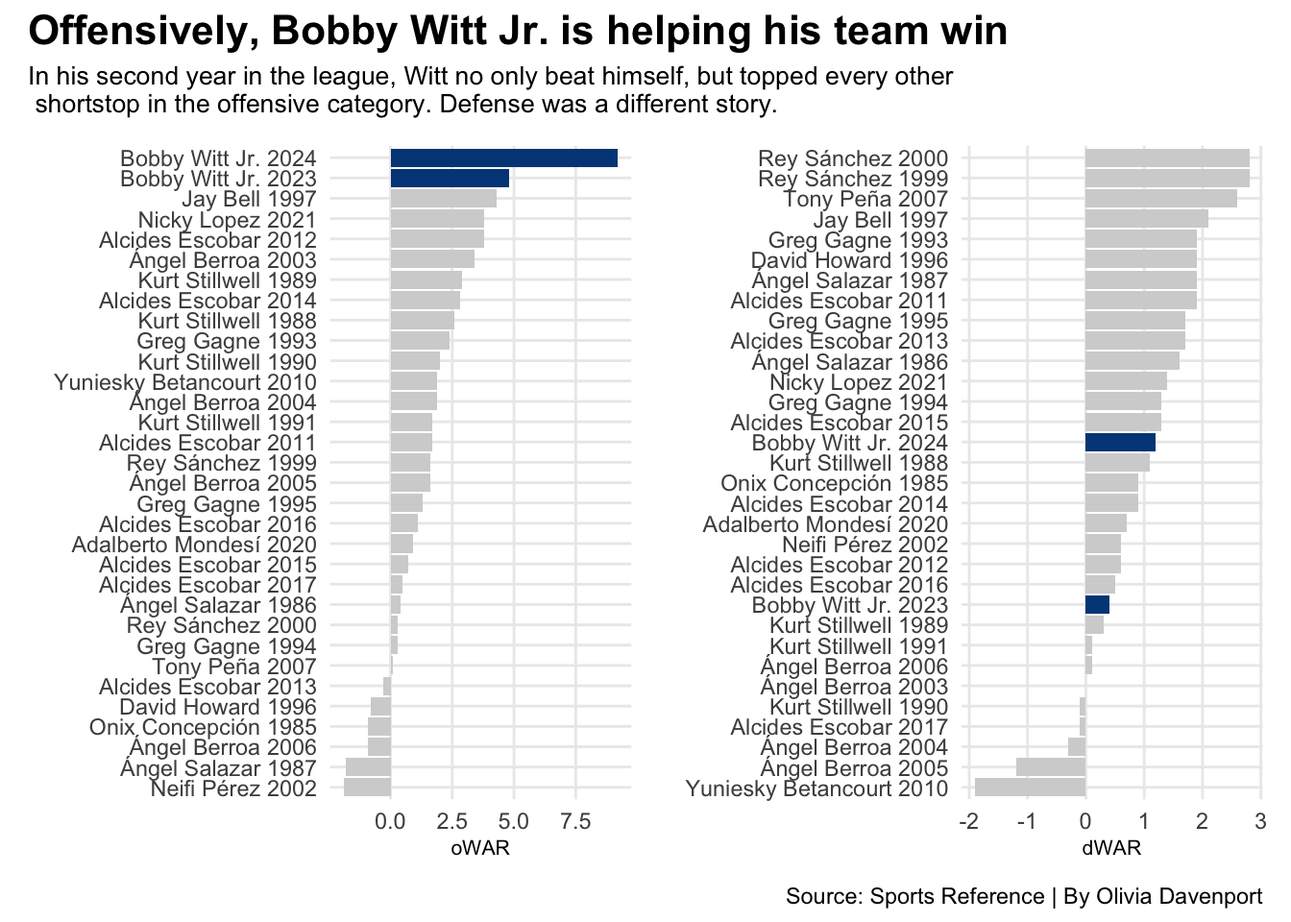
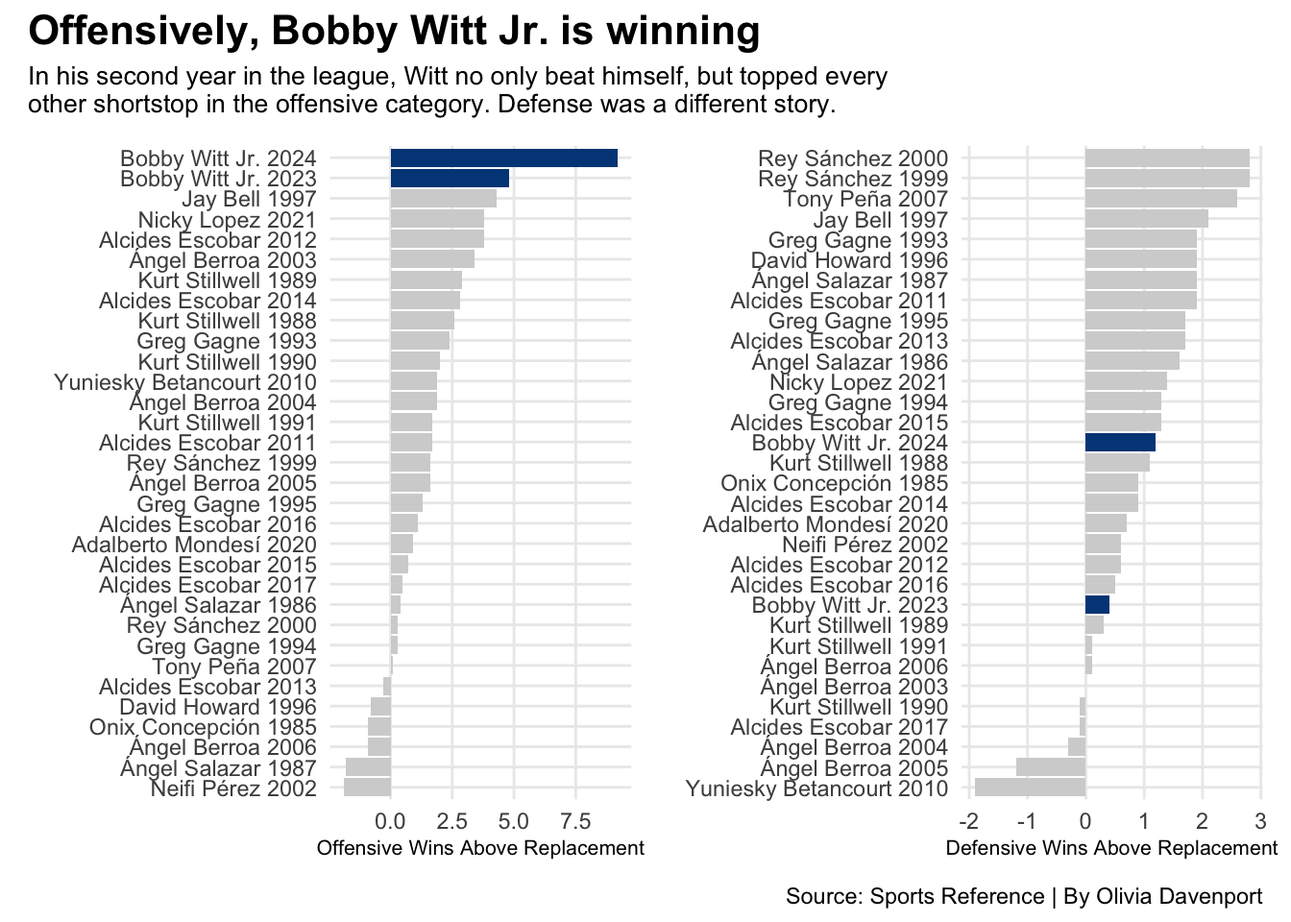
Final Draft

diff --git a/posts/is-bobby-witt-the-best-since-1985/index.html b/posts/is-bobby-witt-the-best-since-1985/index.html
@@ -9,7 +9,7 @@
 <meta name="author" content="Olivia Davenport">
 <meta name="dcterms.date" content="2025-04-14">
 
-<title>CHANGE THIS TO BE THE TITLE OF YOUR POST – Olivia Davenport’s Sports Blog</title>
+<title>Is Bobby Witt Jr.&nbsp;the best shortstop the Royals have had since their first World Series win in 1985? – Olivia Davenport's Sports Blog</title>
 <style>
 code{white-space: pre-wrap;}
 span.smallcaps{font-variant: small-caps;}
@@ -144,7 +144,7 @@ pre > code.sourceCode > span > a:first-child::before { text-decoration: underlin
 <header id="title-block-header" class="quarto-title-block default page-columns page-full">
   <div class="quarto-title-banner page-columns page-full">
     <div class="quarto-title column-body">
-      <h1 class="title">CHANGE THIS TO BE THE TITLE OF YOUR POST</h1>
+      <h1 class="title">Is Bobby Witt Jr.&nbsp;the best shortstop the Royals have had since their first World Series win in 1985?</h1>
                                 <div class="quarto-categories">
                 <div class="quarto-category">baseball</div>
                 <div class="quarto-category">mlb</div>
@@ -185,7 +185,10 @@ pre > code.sourceCode > span > a:first-child::before { text-decoration: underlin
 
 
 
-<p>story goes here for first chart</p>
+<p>The Kansas City Royals have won two World Series Championships. One in 1985, the other in 2015. 10 years later, the Royals are working toward a third championship with the help of young star Bobby Witt Jr.&nbsp;</p>
+<p>The Royals drafted Witt second overall in the 2019 MLB draft. Witt made his MLB debut in 2022 and has made an almost instant impact in Kansas City. He is the only shortstop to reach 30-30 seasons (30 Homeruns and 30 Stolen Bases), and he didn’t only do it once, he did it twice. And he’s only played two seasons in the league.</p>
+<p>Witt has made the largest impact offensively. Offensive WAR (oWAR) stands for offensive wins above replacement. Simply put, oWAR measures how many wins a player adds to their team based on their offensive stats compared to an average player. The larger the number, the better they are, the more wins they have added for their team.</p>
+<p>Defensively, Witt is still making a positive impact, but it is not as notable as his offensive performance. Rey Sánchez tops the chart defensively.</p>
 <div class="cell">
 <details class="code-fold">
 <summary>Code</summary>
@@ -238,7 +241,7 @@ pre > code.sourceCode > span > a:first-child::before { text-decoration: underlin
 <span id="cb1-47"><a href="#cb1-47" aria-hidden="true" tabindex="-1"></a>  <span class="fu">theme_minimal</span>() <span class="sc">+</span></span>
 <span id="cb1-48"><a href="#cb1-48" aria-hidden="true" tabindex="-1"></a>  <span class="fu">labs</span>(</span>
 <span id="cb1-49"><a href="#cb1-49" aria-hidden="true" tabindex="-1"></a>    <span class="at">x=</span><span class="st">""</span>, </span>
-<span id="cb1-50"><a href="#cb1-50" aria-hidden="true" tabindex="-1"></a>    <span class="at">y=</span><span class="st">"oWAR"</span> </span>
+<span id="cb1-50"><a href="#cb1-50" aria-hidden="true" tabindex="-1"></a>    <span class="at">y=</span><span class="st">"Offensive Wins Above Replacement"</span> </span>
 <span id="cb1-51"><a href="#cb1-51" aria-hidden="true" tabindex="-1"></a>    )</span>
 <span id="cb1-52"><a href="#cb1-52" aria-hidden="true" tabindex="-1"></a></span>
 <span id="cb1-53"><a href="#cb1-53" aria-hidden="true" tabindex="-1"></a>bar2 <span class="ot">&lt;-</span> <span class="fu">ggplot</span>() <span class="sc">+</span></span>
@@ -249,13 +252,13 @@ pre > code.sourceCode > span > a:first-child::before { text-decoration: underlin
 <span id="cb1-58"><a href="#cb1-58" aria-hidden="true" tabindex="-1"></a>  <span class="fu">theme_minimal</span>() <span class="sc">+</span></span>
 <span id="cb1-59"><a href="#cb1-59" aria-hidden="true" tabindex="-1"></a>  <span class="fu">labs</span>(</span>
 <span id="cb1-60"><a href="#cb1-60" aria-hidden="true" tabindex="-1"></a>    <span class="at">x=</span><span class="st">""</span>, </span>
-<span id="cb1-61"><a href="#cb1-61" aria-hidden="true" tabindex="-1"></a>    <span class="at">y=</span><span class="st">"dWAR"</span></span>
+<span id="cb1-61"><a href="#cb1-61" aria-hidden="true" tabindex="-1"></a>    <span class="at">y=</span><span class="st">"Defensive Wins Above Replacement"</span></span>
 <span id="cb1-62"><a href="#cb1-62" aria-hidden="true" tabindex="-1"></a>    )</span>
 <span id="cb1-63"><a href="#cb1-63" aria-hidden="true" tabindex="-1"></a></span>
 <span id="cb1-64"><a href="#cb1-64" aria-hidden="true" tabindex="-1"></a>bar1 <span class="sc">+</span> bar2 <span class="sc">+</span> </span>
 <span id="cb1-65"><a href="#cb1-65" aria-hidden="true" tabindex="-1"></a>  <span class="fu">plot_annotation</span>(</span>
-<span id="cb1-66"><a href="#cb1-66" aria-hidden="true" tabindex="-1"></a>    <span class="at">title =</span> <span class="st">"Offensively, Bobby Witt Jr. is helping his team win"</span>,</span>
-<span id="cb1-67"><a href="#cb1-67" aria-hidden="true" tabindex="-1"></a>    <span class="at">subtitle =</span> <span class="st">"In his second year in the league, Witt no only beat himself, but topped every other </span><span class="sc">\n</span><span class="st"> shortstop in the offensive category. Defense was a different story."</span>,</span>
+<span id="cb1-66"><a href="#cb1-66" aria-hidden="true" tabindex="-1"></a>    <span class="at">title =</span> <span class="st">"Offensively, Bobby Witt Jr. is winning"</span>,</span>
+<span id="cb1-67"><a href="#cb1-67" aria-hidden="true" tabindex="-1"></a>    <span class="at">subtitle =</span> <span class="st">"In his second year in the league, Witt no only beat himself, but topped every </span><span class="sc">\n</span><span class="st">other shortstop in the offensive category. Defense was a different story."</span>,</span>
 <span id="cb1-68"><a href="#cb1-68" aria-hidden="true" tabindex="-1"></a>    <span class="at">caption =</span> <span class="st">"Source: Sports Reference | By Olivia Davenport"</span></span>
 <span id="cb1-69"><a href="#cb1-69" aria-hidden="true" tabindex="-1"></a>  )  <span class="sc">&amp;</span> </span>
 <span id="cb1-70"><a href="#cb1-70" aria-hidden="true" tabindex="-1"></a>  <span class="fu">theme</span>(</span>
@@ -273,7 +276,12 @@ pre > code.sourceCode > span > a:first-child::before { text-decoration: underlin
 </div>
 </div>
 </div>
-<p>Story goes here for second chart</p>
+<p>The advanced statistics Rfield and Rbat tell a different story to better understand how a player supports or stabs their team on either side of the ball.</p>
+<p>Rfield shows how many runs a player gives up or allows from a defensive perspective. Rbat shows how many runs a player generates with their bat.</p>
+<p>For both of these statistics, zero is the baseline and positive numbers equal a positive correlation.</p>
+<p>When it comes to the Rfield value, +15 is Golden Glove territory, and +5 to +15 is above average. -5 to –15 is not abysmal, but they are hurting their team significantly.</p>
+<p>Rbat is similar in the fact that positive numbers are a good thing. In two seasons Bobby Witt Jr.&nbsp;has created more runs with his bat than any other short stop that has played for the Royals.</p>
+<p>Defensively, he is slightly below average and still Rey Sánchez’s impact shows up in the field.</p>
 <div class="cell">
 <details class="code-fold">
 <summary>Code</summary>
@@ -289,18 +297,24 @@ pre > code.sourceCode > span > a:first-child::before { text-decoration: underlin
 <span id="cb2-10"><a href="#cb2-10" aria-hidden="true" tabindex="-1"></a>    <span class="at">colour =</span> <span class="st">"lightgrey"</span>,</span>
 <span id="cb2-11"><a href="#cb2-11" aria-hidden="true" tabindex="-1"></a>    <span class="at">colour_x =</span> <span class="st">"#BD9B60"</span>,</span>
 <span id="cb2-12"><a href="#cb2-12" aria-hidden="true" tabindex="-1"></a>    <span class="at">colour_xend =</span> <span class="st">"#004687"</span>) <span class="sc">+</span></span>
-<span id="cb2-13"><a href="#cb2-13" aria-hidden="true" tabindex="-1"></a>  <span class="fu">theme_minimal</span>() <span class="sc">+</span></span>
-<span id="cb2-14"><a href="#cb2-14" aria-hidden="true" tabindex="-1"></a>    <span class="fu">labs</span>(<span class="at">title =</span> <span class="st">"Nebraska's defense wasn't as bad as you think"</span>, </span>
-<span id="cb2-15"><a href="#cb2-15" aria-hidden="true" tabindex="-1"></a>         <span class="at">subtitle =</span> <span class="st">"blah blah blah"</span>,</span>
-<span id="cb2-16"><a href="#cb2-16" aria-hidden="true" tabindex="-1"></a>         <span class="at">y=</span><span class="st">""</span>,</span>
-<span id="cb2-17"><a href="#cb2-17" aria-hidden="true" tabindex="-1"></a>         <span class="at">x=</span><span class="st">"Runs Contributed vs Runs Stopped"</span>) <span class="sc">+</span></span>
-<span id="cb2-18"><a href="#cb2-18" aria-hidden="true" tabindex="-1"></a>  <span class="fu">theme</span>(</span>
-<span id="cb2-19"><a href="#cb2-19" aria-hidden="true" tabindex="-1"></a>    <span class="at">plot.title =</span> <span class="fu">element_text</span>(<span class="at">size =</span> <span class="dv">16</span>, <span class="at">face =</span> <span class="st">"bold"</span>),</span>
-<span id="cb2-20"><a href="#cb2-20" aria-hidden="true" tabindex="-1"></a>    <span class="at">axis.title =</span> <span class="fu">element_text</span>(<span class="at">size =</span> <span class="dv">8</span>), </span>
-<span id="cb2-21"><a href="#cb2-21" aria-hidden="true" tabindex="-1"></a>    <span class="at">plot.subtitle =</span> <span class="fu">element_text</span>(<span class="at">size=</span><span class="dv">10</span>), </span>
-<span id="cb2-22"><a href="#cb2-22" aria-hidden="true" tabindex="-1"></a>    <span class="at">panel.grid.minor =</span> <span class="fu">element_blank</span>()</span>
-<span id="cb2-23"><a href="#cb2-23" aria-hidden="true" tabindex="-1"></a>    ) </span></code><button title="Copy to Clipboard" class="code-copy-button"><i class="bi"></i></button></pre></div>
+<span id="cb2-13"><a href="#cb2-13" aria-hidden="true" tabindex="-1"></a>  <span class="fu">geom_vline</span>(<span class="at">xintercept=</span><span class="dv">0</span>, <span class="at">color=</span><span class="st">"red"</span>, <span class="at">size =</span> .<span class="dv">5</span>) <span class="sc">+</span></span>
+<span id="cb2-14"><a href="#cb2-14" aria-hidden="true" tabindex="-1"></a>  <span class="fu">theme_minimal</span>() <span class="sc">+</span></span>
+<span id="cb2-15"><a href="#cb2-15" aria-hidden="true" tabindex="-1"></a>    <span class="fu">labs</span>(<span class="at">title =</span> <span class="st">"Offense is his forte, but he holds his ground defensively"</span>, </span>
+<span id="cb2-16"><a href="#cb2-16" aria-hidden="true" tabindex="-1"></a>         <span class="at">subtitle =</span> <span class="st">"Witt is scoring significantly more runs than a replacement player would and defensively,</span><span class="sc">\n</span><span class="st">he is just below average."</span>,</span>
+<span id="cb2-17"><a href="#cb2-17" aria-hidden="true" tabindex="-1"></a>         <span class="at">y=</span><span class="st">""</span>,</span>
+<span id="cb2-18"><a href="#cb2-18" aria-hidden="true" tabindex="-1"></a>         <span class="at">x=</span><span class="st">"Runs Contributed vs Runs Stopped"</span>,</span>
+<span id="cb2-19"><a href="#cb2-19" aria-hidden="true" tabindex="-1"></a><span class="at">caption =</span> <span class="st">"Source: Sports Reference | By Olivia Davenport"</span>) <span class="sc">+</span></span>
+<span id="cb2-20"><a href="#cb2-20" aria-hidden="true" tabindex="-1"></a>  <span class="fu">theme</span>(</span>
+<span id="cb2-21"><a href="#cb2-21" aria-hidden="true" tabindex="-1"></a>    <span class="at">plot.title =</span> <span class="fu">element_text</span>(<span class="at">size =</span> <span class="dv">15</span>, <span class="at">face =</span> <span class="st">"bold"</span>),</span>
+<span id="cb2-22"><a href="#cb2-22" aria-hidden="true" tabindex="-1"></a>    <span class="at">axis.title =</span> <span class="fu">element_text</span>(<span class="at">size =</span> <span class="dv">8</span>), </span>
+<span id="cb2-23"><a href="#cb2-23" aria-hidden="true" tabindex="-1"></a>    <span class="at">plot.subtitle =</span> <span class="fu">element_text</span>(<span class="at">size=</span><span class="dv">10</span>), </span>
+<span id="cb2-24"><a href="#cb2-24" aria-hidden="true" tabindex="-1"></a>    <span class="at">panel.grid.minor =</span> <span class="fu">element_blank</span>()</span>
+<span id="cb2-25"><a href="#cb2-25" aria-hidden="true" tabindex="-1"></a>    ) </span></code><button title="Copy to Clipboard" class="code-copy-button"><i class="bi"></i></button></pre></div>
 </details>
+<div class="cell-output cell-output-stderr">
+<pre><code>Warning: Using `size` aesthetic for lines was deprecated in ggplot2 3.4.0.
+ℹ Please use `linewidth` instead.</code></pre>
+</div>
 <div class="cell-output cell-output-stderr">
 <pre><code>Warning: Using the `size` aesthetic with geom_segment was deprecated in ggplot2 3.4.0.
 ℹ Please use the `linewidth` aesthetic instead.</code></pre>
@@ -313,43 +327,43 @@ pre > code.sourceCode > span > a:first-child::before { text-decoration: underlin
 </div>
 </div>
 </div>
-<p>story for third graph here</p>
+<p>Taking a closer look at offense, Witt makes the top three in offensive production. Playing in 319 games in his first two seasons, he made an instant impact. He is third to Alcides Escobar, who played more than 1,000 games for Kansas City, and Ángel Berroa who played 583 games. With much fewer chances, Witt has done nearly as much as Berroa. Witt’s success has been noticed as he was selected for the 2024 All-Star game.</p>
 <div class="cell">
 <details class="code-fold">
 <summary>Code</summary>
-<div class="sourceCode cell-code" id="cb4"><pre class="sourceCode r code-with-copy"><code class="sourceCode r"><span id="cb4-1"><a href="#cb4-1" aria-hidden="true" tabindex="-1"></a>career <span class="ot">&lt;-</span> royalshits <span class="sc">|&gt;</span> </span>
-<span id="cb4-2"><a href="#cb4-2" aria-hidden="true" tabindex="-1"></a>  <span class="fu">group_by</span>(Player) <span class="sc">|&gt;</span> </span>
-<span id="cb4-3"><a href="#cb4-3" aria-hidden="true" tabindex="-1"></a>  <span class="fu">summarise</span>(</span>
-<span id="cb4-4"><a href="#cb4-4" aria-hidden="true" tabindex="-1"></a>    <span class="at">CareerHR =</span> <span class="fu">sum</span>(HR),</span>
-<span id="cb4-5"><a href="#cb4-5" aria-hidden="true" tabindex="-1"></a>    <span class="at">CareerRBI =</span> <span class="fu">sum</span>(RBI),</span>
-<span id="cb4-6"><a href="#cb4-6" aria-hidden="true" tabindex="-1"></a>    <span class="at">CareerDoubles =</span> <span class="fu">sum</span>(<span class="st">`</span><span class="at">2B</span><span class="st">`</span>),</span>
-<span id="cb4-7"><a href="#cb4-7" aria-hidden="true" tabindex="-1"></a>    <span class="at">CareerTriples =</span> <span class="fu">sum</span>(<span class="st">`</span><span class="at">3B</span><span class="st">`</span>),</span>
-<span id="cb4-8"><a href="#cb4-8" aria-hidden="true" tabindex="-1"></a>    <span class="at">Offense =</span> CareerHR <span class="sc">+</span> CareerRBI</span>
-<span id="cb4-9"><a href="#cb4-9" aria-hidden="true" tabindex="-1"></a>  )</span>
-<span id="cb4-10"><a href="#cb4-10" aria-hidden="true" tabindex="-1"></a>Scoring <span class="ot">&lt;-</span> career <span class="sc">|&gt;</span> </span>
-<span id="cb4-11"><a href="#cb4-11" aria-hidden="true" tabindex="-1"></a>  <span class="fu">pivot_longer</span>(</span>
-<span id="cb4-12"><a href="#cb4-12" aria-hidden="true" tabindex="-1"></a>    <span class="at">cols=</span><span class="fu">starts_with</span>(<span class="st">"C"</span>),</span>
-<span id="cb4-13"><a href="#cb4-13" aria-hidden="true" tabindex="-1"></a>    <span class="at">names_to=</span><span class="st">"Type"</span></span>
-<span id="cb4-14"><a href="#cb4-14" aria-hidden="true" tabindex="-1"></a>  )</span>
-<span id="cb4-15"><a href="#cb4-15" aria-hidden="true" tabindex="-1"></a></span>
-<span id="cb4-16"><a href="#cb4-16" aria-hidden="true" tabindex="-1"></a> <span class="fu">ggplot</span>() <span class="sc">+</span></span>
-<span id="cb4-17"><a href="#cb4-17" aria-hidden="true" tabindex="-1"></a>   <span class="fu">geom_bar</span>(<span class="at">data=</span>Scoring, <span class="fu">aes</span>(<span class="at">x=</span><span class="fu">reorder</span>(Player,Offense), <span class="at">weight=</span>Offense, <span class="at">fill =</span> Type)) <span class="sc">+</span></span>
-<span id="cb4-18"><a href="#cb4-18" aria-hidden="true" tabindex="-1"></a>   <span class="fu">scale_fill_manual</span>(<span class="at">values=</span><span class="fu">c</span>(<span class="st">"#004687"</span>,<span class="st">"#BD9B60"</span>,<span class="st">"#7AB2DD"</span>,<span class="st">"lightgrey"</span>), <span class="at">name=</span><span class="st">""</span>) <span class="sc">+</span></span>
-<span id="cb4-19"><a href="#cb4-19" aria-hidden="true" tabindex="-1"></a>   <span class="fu">coord_flip</span>() <span class="sc">+</span></span>
-<span id="cb4-20"><a href="#cb4-20" aria-hidden="true" tabindex="-1"></a>   <span class="fu">theme_minimal</span>() <span class="sc">+</span></span>
-<span id="cb4-21"><a href="#cb4-21" aria-hidden="true" tabindex="-1"></a>   <span class="fu">labs</span>(</span>
-<span id="cb4-22"><a href="#cb4-22" aria-hidden="true" tabindex="-1"></a>    <span class="at">x=</span><span class="st">""</span>, </span>
-<span id="cb4-23"><a href="#cb4-23" aria-hidden="true" tabindex="-1"></a>    <span class="at">y=</span><span class="st">"Offensive Production"</span>,</span>
-<span id="cb4-24"><a href="#cb4-24" aria-hidden="true" tabindex="-1"></a>    <span class="at">title=</span><span class="st">"At the plate, Witt is a problem for pitchers"</span>, </span>
-<span id="cb4-25"><a href="#cb4-25" aria-hidden="true" tabindex="-1"></a>    <span class="at">subtitle=</span><span class="st">"With over 200 fewer games under his belt, Bobby Witt Jr. is neck and </span><span class="sc">\n</span><span class="st"> neck with Ángel Berroa when it comes to the plate."</span>, </span>
-<span id="cb4-26"><a href="#cb4-26" aria-hidden="true" tabindex="-1"></a>    <span class="at">caption=</span><span class="st">"Source: Sports Reference | By Olivia Davenport"</span></span>
-<span id="cb4-27"><a href="#cb4-27" aria-hidden="true" tabindex="-1"></a>    ) <span class="sc">+</span></span>
-<span id="cb4-28"><a href="#cb4-28" aria-hidden="true" tabindex="-1"></a>     <span class="fu">theme</span>(</span>
-<span id="cb4-29"><a href="#cb4-29" aria-hidden="true" tabindex="-1"></a>    <span class="at">plot.title =</span> <span class="fu">element_text</span>(<span class="at">size =</span> <span class="dv">16</span>, <span class="at">face =</span> <span class="st">"bold"</span>),</span>
-<span id="cb4-30"><a href="#cb4-30" aria-hidden="true" tabindex="-1"></a>    <span class="at">axis.title =</span> <span class="fu">element_text</span>(<span class="at">size =</span> <span class="dv">8</span>), </span>
-<span id="cb4-31"><a href="#cb4-31" aria-hidden="true" tabindex="-1"></a>    <span class="at">plot.subtitle =</span> <span class="fu">element_text</span>(<span class="at">size=</span><span class="dv">10</span>), </span>
-<span id="cb4-32"><a href="#cb4-32" aria-hidden="true" tabindex="-1"></a>    <span class="at">panel.grid.minor =</span> <span class="fu">element_blank</span>()</span>
-<span id="cb4-33"><a href="#cb4-33" aria-hidden="true" tabindex="-1"></a>    ) </span></code><button title="Copy to Clipboard" class="code-copy-button"><i class="bi"></i></button></pre></div>
+<div class="sourceCode cell-code" id="cb5"><pre class="sourceCode r code-with-copy"><code class="sourceCode r"><span id="cb5-1"><a href="#cb5-1" aria-hidden="true" tabindex="-1"></a>career <span class="ot">&lt;-</span> royalshits <span class="sc">|&gt;</span> </span>
+<span id="cb5-2"><a href="#cb5-2" aria-hidden="true" tabindex="-1"></a>  <span class="fu">group_by</span>(Player) <span class="sc">|&gt;</span> </span>
+<span id="cb5-3"><a href="#cb5-3" aria-hidden="true" tabindex="-1"></a>  <span class="fu">summarise</span>(</span>
+<span id="cb5-4"><a href="#cb5-4" aria-hidden="true" tabindex="-1"></a>    <span class="at">CareerHR =</span> <span class="fu">sum</span>(HR),</span>
+<span id="cb5-5"><a href="#cb5-5" aria-hidden="true" tabindex="-1"></a>    <span class="at">CareerRBI =</span> <span class="fu">sum</span>(RBI),</span>
+<span id="cb5-6"><a href="#cb5-6" aria-hidden="true" tabindex="-1"></a>    <span class="at">CareerDoubles =</span> <span class="fu">sum</span>(<span class="st">`</span><span class="at">2B</span><span class="st">`</span>),</span>
+<span id="cb5-7"><a href="#cb5-7" aria-hidden="true" tabindex="-1"></a>    <span class="at">CareerTriples =</span> <span class="fu">sum</span>(<span class="st">`</span><span class="at">3B</span><span class="st">`</span>),</span>
+<span id="cb5-8"><a href="#cb5-8" aria-hidden="true" tabindex="-1"></a>    <span class="at">Offense =</span> CareerHR <span class="sc">+</span> CareerRBI</span>
+<span id="cb5-9"><a href="#cb5-9" aria-hidden="true" tabindex="-1"></a>  )</span>
+<span id="cb5-10"><a href="#cb5-10" aria-hidden="true" tabindex="-1"></a>Scoring <span class="ot">&lt;-</span> career <span class="sc">|&gt;</span> </span>
+<span id="cb5-11"><a href="#cb5-11" aria-hidden="true" tabindex="-1"></a>  <span class="fu">pivot_longer</span>(</span>
+<span id="cb5-12"><a href="#cb5-12" aria-hidden="true" tabindex="-1"></a>    <span class="at">cols=</span><span class="fu">starts_with</span>(<span class="st">"C"</span>),</span>
+<span id="cb5-13"><a href="#cb5-13" aria-hidden="true" tabindex="-1"></a>    <span class="at">names_to=</span><span class="st">"Type"</span></span>
+<span id="cb5-14"><a href="#cb5-14" aria-hidden="true" tabindex="-1"></a>  )</span>
+<span id="cb5-15"><a href="#cb5-15" aria-hidden="true" tabindex="-1"></a></span>
+<span id="cb5-16"><a href="#cb5-16" aria-hidden="true" tabindex="-1"></a> <span class="fu">ggplot</span>() <span class="sc">+</span></span>
+<span id="cb5-17"><a href="#cb5-17" aria-hidden="true" tabindex="-1"></a>   <span class="fu">geom_bar</span>(<span class="at">data=</span>Scoring, <span class="fu">aes</span>(<span class="at">x=</span><span class="fu">reorder</span>(Player,Offense), <span class="at">weight=</span>Offense, <span class="at">fill =</span> Type)) <span class="sc">+</span></span>
+<span id="cb5-18"><a href="#cb5-18" aria-hidden="true" tabindex="-1"></a>   <span class="fu">scale_fill_manual</span>(<span class="at">values=</span><span class="fu">c</span>(<span class="st">"#004687"</span>,<span class="st">"#BD9B60"</span>,<span class="st">"#7AB2DD"</span>,<span class="st">"lightgrey"</span>), <span class="at">name=</span><span class="st">""</span>) <span class="sc">+</span></span>
+<span id="cb5-19"><a href="#cb5-19" aria-hidden="true" tabindex="-1"></a>   <span class="fu">coord_flip</span>() <span class="sc">+</span></span>
+<span id="cb5-20"><a href="#cb5-20" aria-hidden="true" tabindex="-1"></a>   <span class="fu">theme_minimal</span>() <span class="sc">+</span></span>
+<span id="cb5-21"><a href="#cb5-21" aria-hidden="true" tabindex="-1"></a>   <span class="fu">labs</span>(</span>
+<span id="cb5-22"><a href="#cb5-22" aria-hidden="true" tabindex="-1"></a>    <span class="at">x=</span><span class="st">""</span>, </span>
+<span id="cb5-23"><a href="#cb5-23" aria-hidden="true" tabindex="-1"></a>    <span class="at">y=</span><span class="st">"Offensive Production"</span>,</span>
+<span id="cb5-24"><a href="#cb5-24" aria-hidden="true" tabindex="-1"></a>    <span class="at">title=</span><span class="st">"At the plate, Witt is a problem for pitchers"</span>, </span>
+<span id="cb5-25"><a href="#cb5-25" aria-hidden="true" tabindex="-1"></a>    <span class="at">subtitle=</span><span class="st">"With over 200 fewer games under his belt, Bobby Witt Jr. is comparable to </span><span class="sc">\n</span><span class="st">Ángel Berroa when it comes to offensive appearances."</span>, </span>
+<span id="cb5-26"><a href="#cb5-26" aria-hidden="true" tabindex="-1"></a>    <span class="at">caption=</span><span class="st">"Source: Sports Reference | By Olivia Davenport"</span></span>
+<span id="cb5-27"><a href="#cb5-27" aria-hidden="true" tabindex="-1"></a>    ) <span class="sc">+</span></span>
+<span id="cb5-28"><a href="#cb5-28" aria-hidden="true" tabindex="-1"></a>     <span class="fu">theme</span>(</span>
+<span id="cb5-29"><a href="#cb5-29" aria-hidden="true" tabindex="-1"></a>    <span class="at">plot.title =</span> <span class="fu">element_text</span>(<span class="at">size =</span> <span class="dv">16</span>, <span class="at">face =</span> <span class="st">"bold"</span>),</span>
+<span id="cb5-30"><a href="#cb5-30" aria-hidden="true" tabindex="-1"></a>    <span class="at">axis.title =</span> <span class="fu">element_text</span>(<span class="at">size =</span> <span class="dv">8</span>), </span>
+<span id="cb5-31"><a href="#cb5-31" aria-hidden="true" tabindex="-1"></a>    <span class="at">plot.subtitle =</span> <span class="fu">element_text</span>(<span class="at">size=</span><span class="dv">10</span>), </span>
+<span id="cb5-32"><a href="#cb5-32" aria-hidden="true" tabindex="-1"></a>    <span class="at">panel.grid.minor =</span> <span class="fu">element_blank</span>()</span>
+<span id="cb5-33"><a href="#cb5-33" aria-hidden="true" tabindex="-1"></a>    ) </span></code><button title="Copy to Clipboard" class="code-copy-button"><i class="bi"></i></button></pre></div>
 </details>
 <div class="cell-output-display">
 <div>
@@ -359,6 +373,8 @@ pre > code.sourceCode > span > a:first-child::before { text-decoration: underlin
 </div>
 </div>
 </div>
+<p>Bobby Witt Jr.&nbsp;Is certainly a key piece to the Royals success and the Royals front office knows that. Witt recently signed an 11-year deal worth more than $288 million.</p>
+<p>Last year, the Royals made it back to the postseason for the first time since their last World Series win in 2015 and there is no doubt, Witt had something to do with that. The Royals finished 86-76 last year after 109 losses the season before. Baseball is a team sport, but Bobby Witt Jr.&nbsp;Single-handedly makes the Royals better.</p>
 
 
 

diff --git a/index.html b/index.html
@@ -200,7 +200,7 @@ window.Quarto = {
 
 <div class="quarto-listing quarto-listing-container-default" id="listing-listing">
 <div class="list quarto-listing-default">
-<div class="quarto-post image-right" data-index="0" data-categories="YmFzZWJhbGwlMkNtbGIlMkNzaG9ydHN0b3A=" data-listing-date-sort="1744606800000" data-listing-file-modified-sort="1744684523217" data-listing-date-modified-sort="NaN" data-listing-reading-time-sort="4" data-listing-word-count-sort="720">
+<div class="quarto-post image-right" data-index="0" data-categories="YmFzZWJhbGwlMkNtbGIlMkNzaG9ydHN0b3A=" data-listing-date-sort="1744606800000" data-listing-file-modified-sort="1744689270097" data-listing-date-modified-sort="NaN" data-listing-reading-time-sort="7" data-listing-word-count-sort="1240">
 <div class="thumbnail">
 <p><a href="./posts/is-bobby-witt-the-best-since-1985/index.html" class="no-external"></a></p><a href="./posts/is-bobby-witt-the-best-since-1985/index.html" class="no-external">
 <p><img loading="lazy" src="./posts/is-bobby-witt-the-best-since-1985/image.png" class="thumbnail-image"></p>
@@ -208,7 +208,7 @@ window.Quarto = {
 </div>
 <div class="body">
 <h3 class="no-anchor listing-title">
-<a href="./posts/is-bobby-witt-the-best-since-1985/index.html" class="no-external">CHANGE THIS TO BE THE TITLE OF YOUR POST</a>
+<a href="./posts/is-bobby-witt-the-best-since-1985/index.html" class="no-external">Is Bobby Witt Jr.&nbsp;the best shortstop the Royals have had since their first World Series win in 1985?</a>
 </h3>
 <div class="listing-subtitle">
 <a href="./posts/is-bobby-witt-the-best-since-1985/index.html" class="no-external"></a>
@@ -225,7 +225,7 @@ shortstop
 </div>
 </div>
 <div class="listing-description">
-<a href="./posts/is-bobby-witt-the-best-since-1985/index.html" class="no-external">story goes here for first chart</a>
+<a href="./posts/is-bobby-witt-the-best-since-1985/index.html" class="no-external">The Kansas City Royals have won two World Series Championships. One in 1985, the other in 2015. 10 years later, the Royals are working toward a third championship with the…</a>
 </div>
 </div>
 <div class="metadata">
